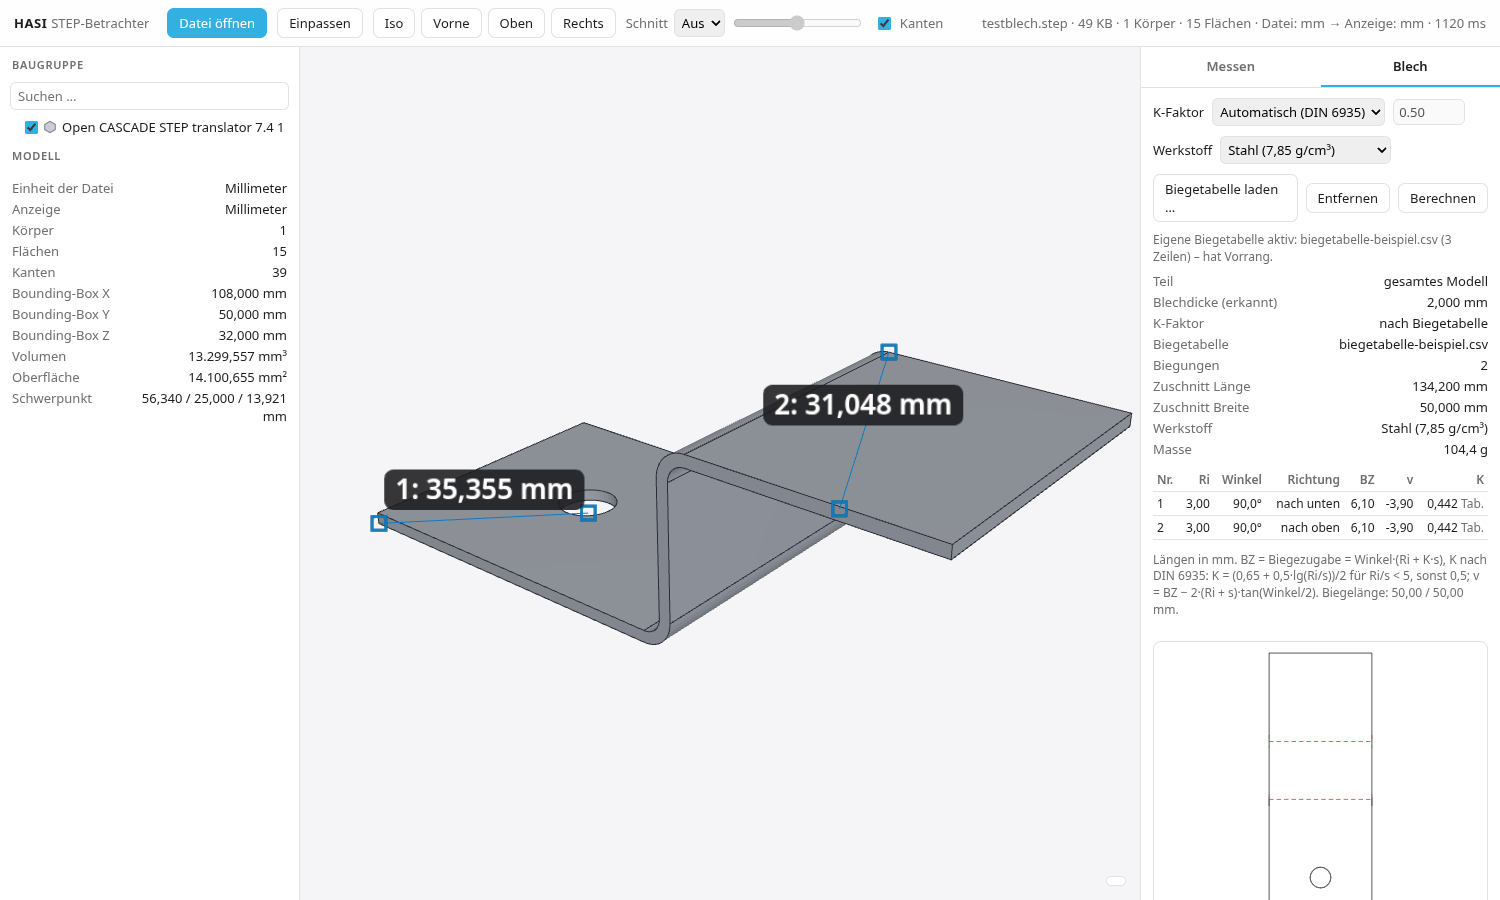
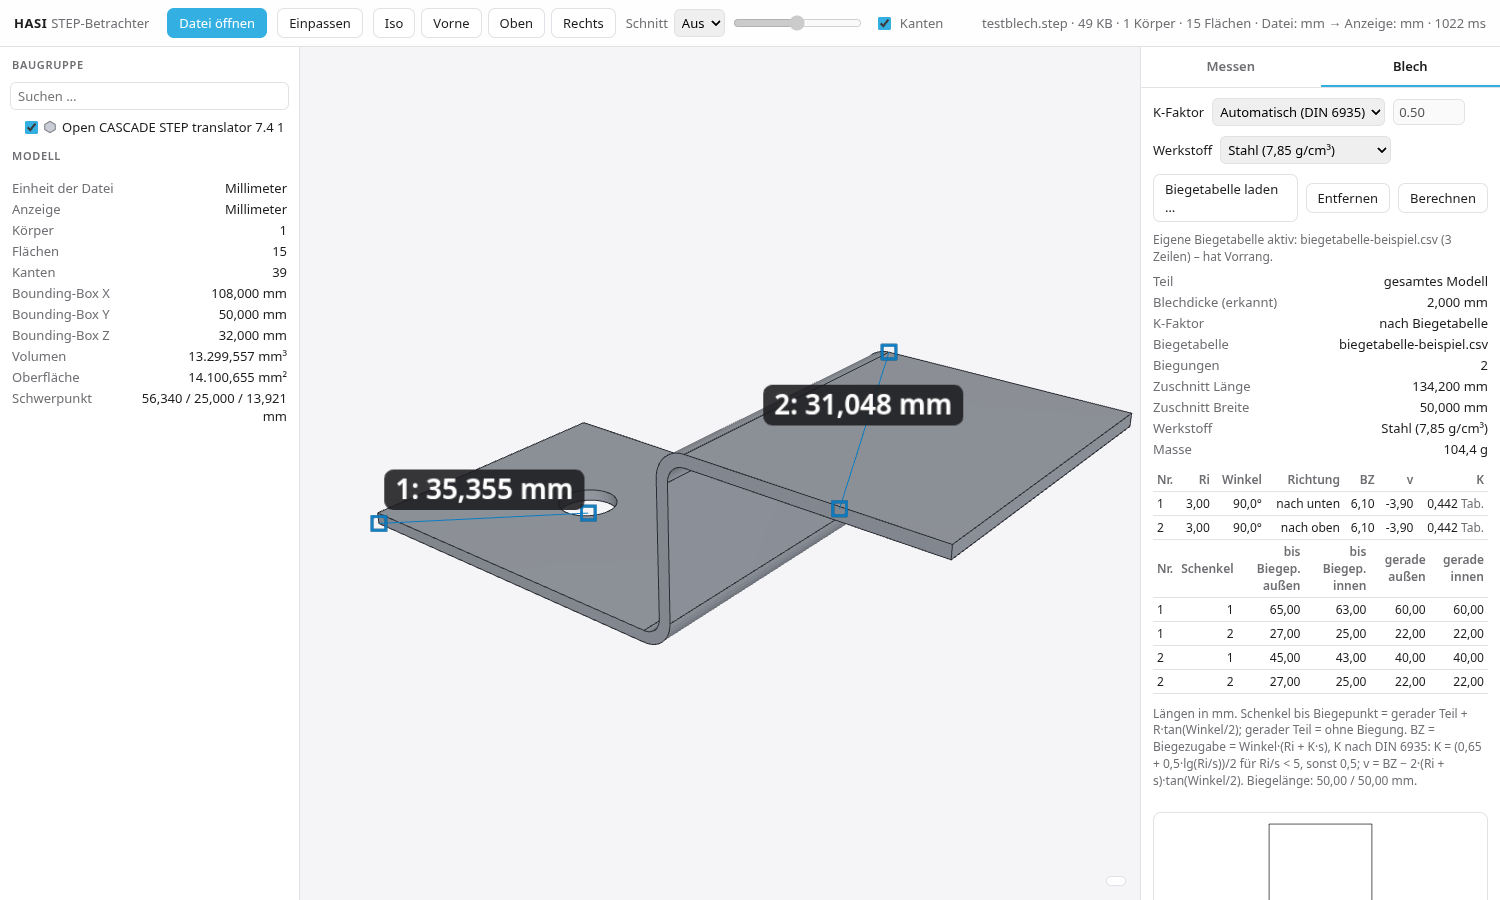
Schenkellänge in beiden Varianten (bis Biegepunkt, gerader Teil) im Biege-Panel und in der Biegetabelle

Changed region(s): [[0.7667, 0.5911, 1.0, 0.8711], [0.8587, 0.9022, 0.92, 0.9333], [0.7667, 0.7156, 0.7973, 0.7467]]

diff --git a/src/main.js b/src/main.js
@@ -256,6 +256,8 @@ $('mat').addEventListener('change',()=>{if([...$('mat2').options].some(o=>o.valu
 $('csv').onchange=async e=>{const f=e.target.files[0];if(!f)return;try{const {parseBiegetabelle}=await import('./kfaktor.js');const rows=parseBiegetabelle(await f.text());biegetabelle={name:f.name,rows};localStorage.setItem('biegetabelle',JSON.stringify(biegetabelle));showCsv();if(data)calcSheet()}catch(err){$('csvinfo').textContent=err.message}e.target.value=''};
 $('csvClear').onclick=()=>{biegetabelle=null;localStorage.removeItem('biegetabelle');showCsv();if(data)calcSheet()};
 window.__setBiegetabelle=(name,rows)=>{biegetabelle={name,rows};showCsv()};
+function schenkelTab(bends,n2){const rows=bends.flatMap(b=>(b.schenkel||[]).map((l,i)=>`<tr><td>${b.nr}</td><td>${i+1}</td><td>${n2(l.aussen)}</td><td>${l.innen!=null?n2(l.innen):'–'}</td><td>${n2(l.geradeAussen)}</td><td>${l.geradeInnen!=null?n2(l.geradeInnen):'–'}</td></tr>`));
+  return rows.length?`<table class="schenkel"><tr><th>Nr.</th><th>Schenkel</th><th title="gerader Teil + R·tan(φ/2), außen">bis Biegep. außen</th><th title="gerader Teil + R·tan(φ/2), innen">bis Biegep. innen</th><th>gerade außen</th><th>gerade innen</th></tr>${rows.join('')}</table>`:''}
 async function calcSheet(){if(!data)return;const K=parseFloat(String($('kf').value).replace(',','.'));if(!(K>=0&&K<=1)){$('sheetwarn').textContent='K-Faktor muss zwischen 0 und 1 liegen.';return}
   const opts={modus:$('kmode').value,K,tabelle:biegetabelle?.rows||null};
   const r=await call('sheet',{opts,inst:sheetSolid});sheetCache=r;window.__lastSheet=r;
@@ -265,7 +267,7 @@ async function calcSheet(){if(!data)return;const K=parseFloat(String($('kf').val
   try{const q=await call('props',{ids:[sheetSolid??0]});const d=parseFloat($('mat2').value);rows.push(['Werkstoff',$('mat2').selectedOptions[0].textContent],['Masse',q.volume/1000*d,'M'])}catch{}
   kv($('sheetinfo'),rows);
   const n2=v=>nf(v,2);
-  $('bends').innerHTML=r.bends.length?`<table><tr><th>Nr.</th><th title="Innenradius">Ri</th><th>Winkel</th><th>Richtung</th><th title="Biegezugabe (neutrale Faser)">BZ</th><th title="Biegeverkürzung">v</th><th title="K-Faktor und Quelle">K</th></tr>${r.bends.map(b=>`<tr><td>${b.nr}</td><td>${n2(b.ri)}</td><td>${nf(b.ang,1)}°</td><td>${b.dir}</td><td>${n2(b.ba)}</td><td>${n2(b.v)}</td><td title="${b.quelle}">${nf(b.K,3)}<span class="m"> ${b.quelle==='DIN 6935'?'DIN':b.quelle==='Tabelle'?'Tab.':'man.'}</span></td></tr>`).join('')}</table><p class="hint">Längen in mm. BZ = Biegezugabe = Winkel·(Ri + K·s), K nach DIN 6935: K = (0,65 + 0,5·lg(Ri/s))/2 für Ri/s &lt; 5, sonst 0,5; v = BZ − 2·(Ri + s)·tan(Winkel/2). Biegelänge: ${r.bends.map(b=>n2(b.len)).join(' / ')} mm.</p>`:'<p class="hint">Keine zylindrischen Biegungen gefunden.</p>';
+  $('bends').innerHTML=r.bends.length?`<table><tr><th>Nr.</th><th title="Innenradius">Ri</th><th>Winkel</th><th>Richtung</th><th title="Biegezugabe (neutrale Faser)">BZ</th><th title="Biegeverkürzung">v</th><th title="K-Faktor und Quelle">K</th></tr>${r.bends.map(b=>`<tr><td>${b.nr}</td><td>${n2(b.ri)}</td><td>${nf(b.ang,1)}°</td><td>${b.dir}</td><td>${n2(b.ba)}</td><td>${n2(b.v)}</td><td title="${b.quelle}">${nf(b.K,3)}<span class="m"> ${b.quelle==='DIN 6935'?'DIN':b.quelle==='Tabelle'?'Tab.':'man.'}</span></td></tr>`).join('')}</table>${schenkelTab(r.bends,n2)}<p class="hint">Längen in mm. Schenkel bis Biegepunkt = gerader Teil + R·tan(Winkel/2); gerader Teil = ohne Biegung. BZ = Biegezugabe = Winkel·(Ri + K·s), K nach DIN 6935: K = (0,65 + 0,5·lg(Ri/s))/2 für Ri/s &lt; 5, sonst 0,5; v = BZ − 2·(Ri + s)·tan(Winkel/2). Biegelänge: ${r.bends.map(b=>n2(b.len)).join(' / ')} mm.</p>`:'<p class="hint">Keine zylindrischen Biegungen gefunden.</p>';
   $('flatprev').innerHTML=r.flat?svg(r.flat):'';$('dxf').disabled=!r.flat;
   const warn=[...r.warn,'Hinweis: Abwicklung nur für einfache Blechteile mit zylindrischen Biegungen und geraden Abschnitten. Werte vor der Fertigung prüfen.'];$('sheetwarn').innerHTML=warn.map(w=>'• '+w).join('<br>');return r}
 function svg(f){const pad=Math.max(...f.size)*0.04,w=f.size[0]+2*pad,h=f.size[1]+2*pad;const tr=p=>`${(p[0]-f.min[0]+pad).toFixed(3)},${(f.max[1]-p[1]+pad).toFixed(3)}`;const sw=Math.max(w,h)/400;

diff --git a/src/brep.js b/src/brep.js
@@ -209,13 +209,15 @@ export function createBrep(oc){
         out.push({rad,L})});return out};
     const li=legs(ii),lo=legs(oi),tn=phi<Math.PI-1e-6?Math.tan(phi/2):NaN;
     const pair=lo.map(o=>({o,i:li.find(x=>V.dot(x.rad,o.rad)>0.99)}));
-    return {ri,ro,t:ro-ri,phi,inner:ii,outer:oi,legs:pair.map(({o,i})=>({aussen:o.L+ro*tn,innen:i?i.L+ri*tn:null,geradeAussen:o.L}))}};
+    return {ri,ro,t:ro-ri,phi,inner:ii,outer:oi,legs:pair.map(({o,i})=>({aussen:o.L+ro*tn,innen:i?i.L+ri*tn:null,geradeAussen:o.L,geradeInnen:i?i.L:null}))}};
   M.describe=s=>{const R0=RES(s),R=[];if(s.k==='solid'){const q=M.solidProps([s.inst]);R.push(['Volumen',q.volume,'V'],['Oberfläche',q.area,'A']);return R}
     if(s.k==='face'){const f=R0.f;R.push(['Fläche',f.type,'t'],['Flächeninhalt',f.area,'A']);const u=perimeter(R0.shape);R.push(['Umfang (gesamt)',u.s,'L']);if(Math.abs(u.outer-u.s)>1e-9)R.push(['Umfang (außen)',u.outer,'L']);
       if(f.cyl){const bi=M.bendInfo(M.inst[s.inst??0].u,s.id);
         if(bi){R.unshift(['Radius innen Ri',bi.ri,'L','!'],['Radius außen Ra',bi.ro,'L','!'],['Bogenlänge (angeklickt)',f.cyl.r*f.cyl.ang,'L','!'],['Biegewinkel',bi.phi*DEG,'W','!']);
           R.push(['Blechdicke',bi.t,'L'],['Bogenlänge innen',bi.ri*bi.phi,'L'],['Bogenlänge außen',bi.ro*bi.phi,'L'],['Öffnungswinkel der Schenkel',180-bi.phi*DEG,'W']);
-          bi.legs.forEach((l,i)=>{R.push(['Schenkel '+(i+1)+' außen',l.aussen,'L']);if(l.innen!=null)R.push(['Schenkel '+(i+1)+' innen',l.innen,'L'])});
+          // Schenkellänge in zwei Varianten: bis Biegepunkt (gerader Teil + R·tan(φ/2)) und gerader Teil ohne Biegung
+          bi.legs.forEach((l,i)=>{const n='Schenkel '+(i+1);R.push([n+' (bis Biegepunkt) außen',l.aussen,'L']);if(l.innen!=null)R.push([n+' (bis Biegepunkt) innen',l.innen,'L']);
+            R.push([n+' gerader Teil außen',l.geradeAussen,'L']);if(l.geradeInnen!=null)R.push([n+' gerader Teil innen',l.geradeInnen,'L'])});
           if(bi.legs.length===2)R.push(['Außenmaß über die Biegung',bi.legs[0].aussen+bi.legs[1].aussen,'L'])}
         else{R.unshift(['Radius R',f.cyl.r,'L','!'],['Bogenlänge',f.cyl.r*f.cyl.ang,'L','!']);R.push(['Durchmesser Ø',2*f.cyl.r,'L'],['Radius R',f.cyl.r,'L'],['Öffnungswinkel',f.cyl.ang*DEG,'W'],['Bogenlänge',f.cyl.r*f.cyl.ang,'L'])}}
       if(f.plane)R.push(['Normale',f.plane.n.map(x=>x.toFixed(4)).join(' / '),'t'])}
@@ -307,7 +309,7 @@ export function createBrep(oc){
           const ba=bz.ba;
           const ends=e.pts;const mid=ends.map(p=>{const P2=mF.f(p);return [P2[0]+th*rn/2*W2[0],P2[1]+th*rn/2*W2[1]]});
           bendLines.push(mid);
-          res.bends.push({nr:res.bends.length+1,face:gi,ri:rin,ang:th*DEG,dir:side>0?'nach oben':'nach unten',len:V.len(V.sub(ends[1],ends[0])),ba,v:bz.v,K:bz.K,quelle:bz.quelle});
+          res.bends.push({nr:res.bends.length+1,face:gi,ri:rin,ang:th*DEG,dir:side>0?'nach oben':'nach unten',len:V.len(V.sub(ends[1],ends[0])),ba,v:bz.v,K:bz.K,quelle:bz.quelle,schenkel:(M.bendInfo(M.inst[inst].u,gi)?.legs)||[]});
           // weiter zur nächsten ebenen Fläche über die zweite Tangentenkante
           for(const [e2_,ei2] of lineEdgesOf(gi)){const hi=e2_.faces.find(x=>x!==gi);if(skin.has(hi)||ei2===ei)continue;const H=M.faces[hi];
             if(H.plane&&Math.abs(V.dot(e2_.line.d,d))>1-1e-6){const q1=e2_.line.p;const w1=V.sub(q1,C.c),r1=V.norm(V.sub(w1,V.mul(d,V.dot(w1,d))));
